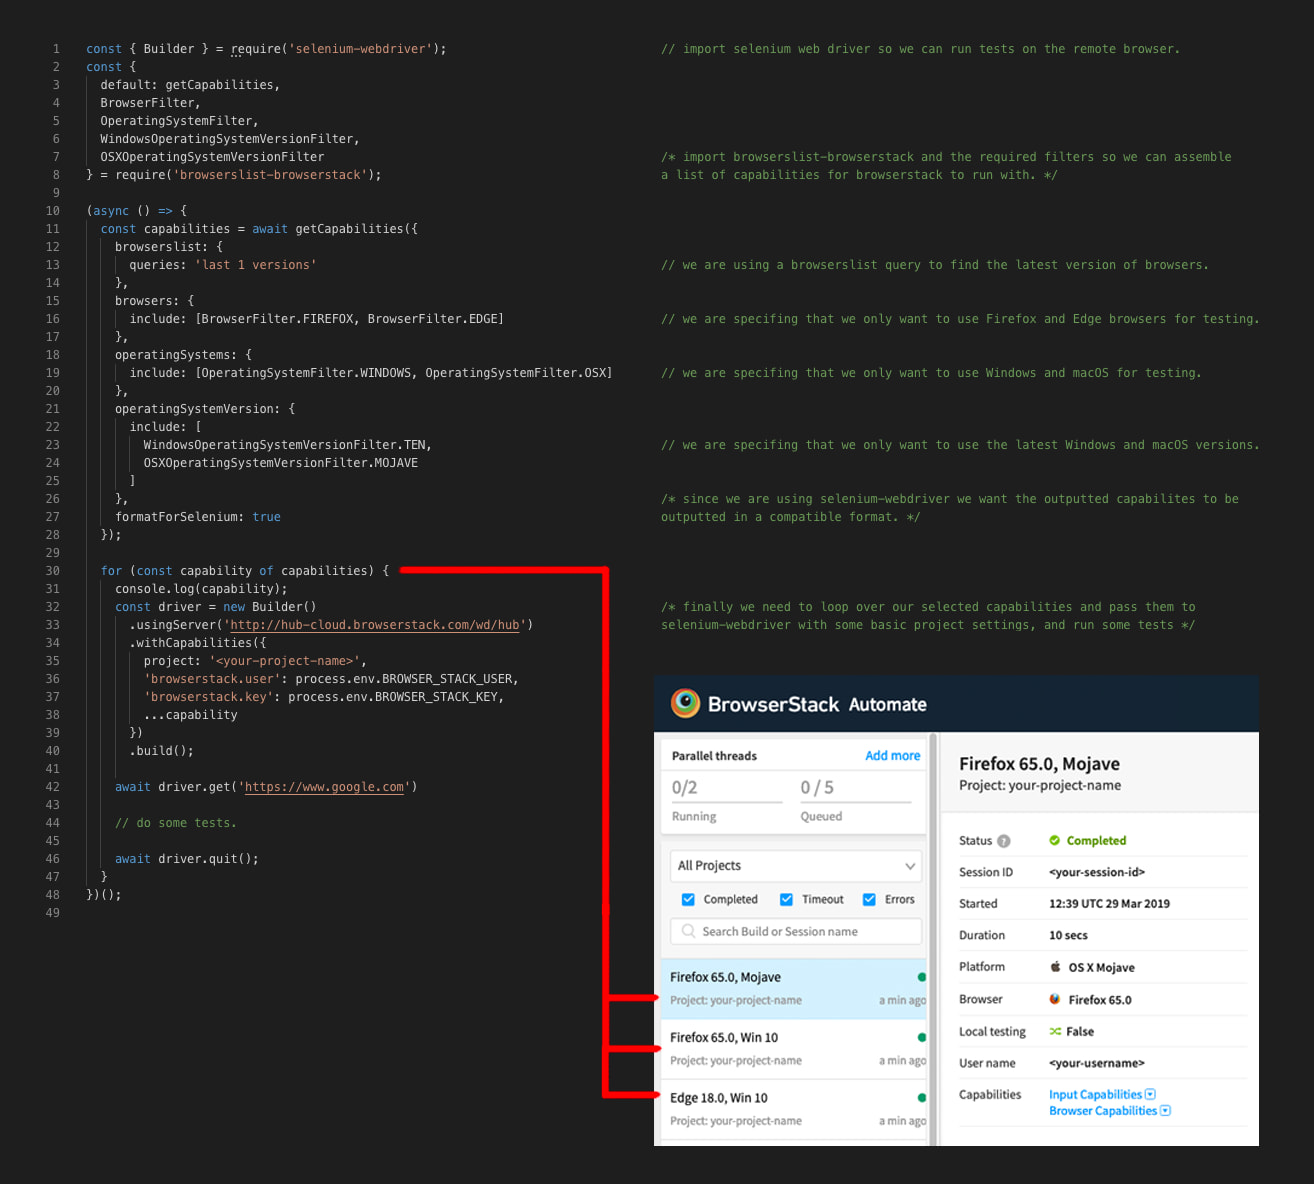
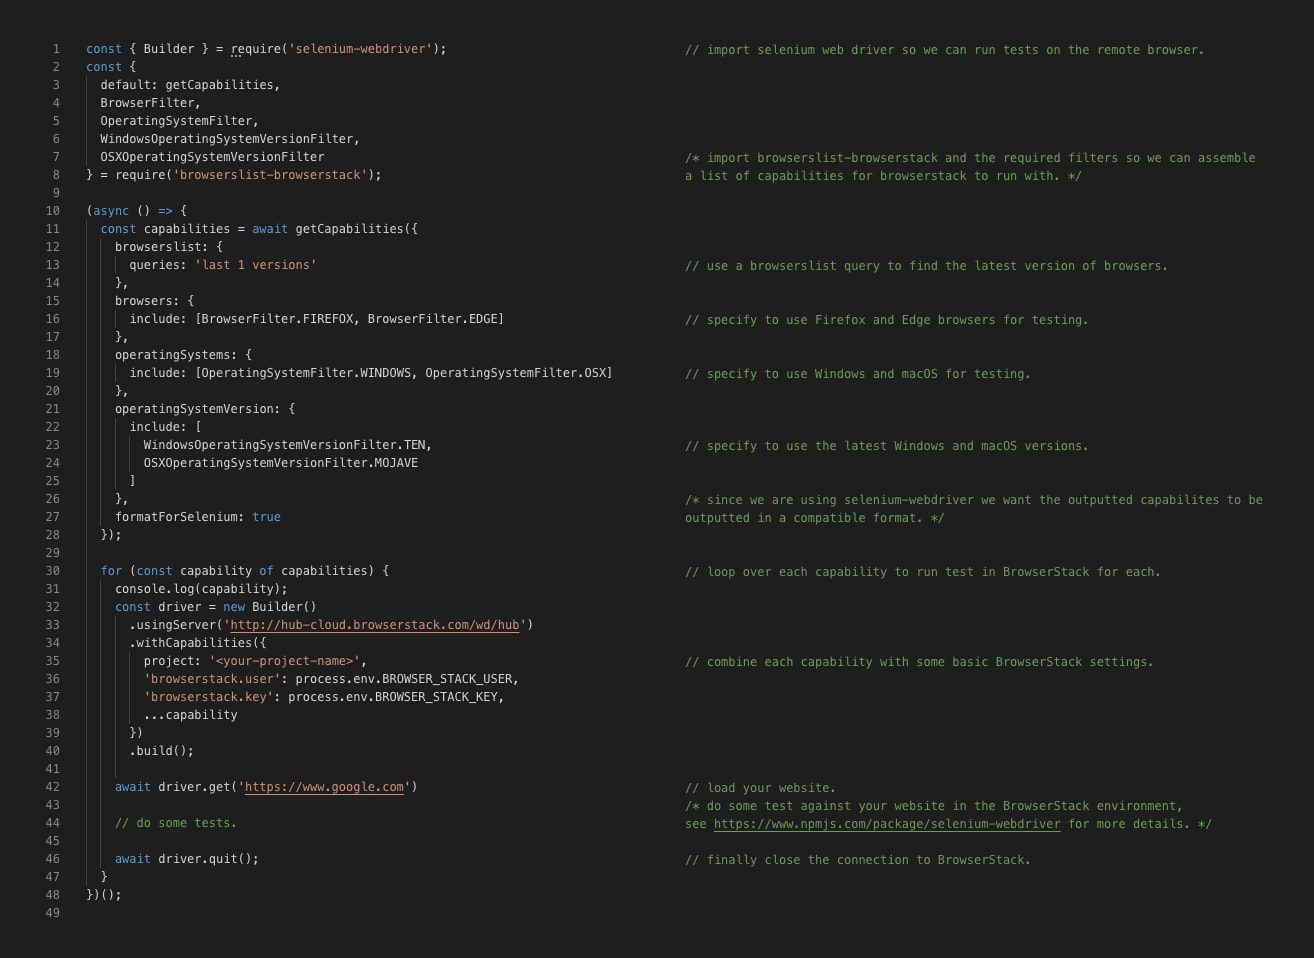
docs(readme): more tweaks

diff --git a/examples/minimal.comments.js b/examples/minimal.comments.js
@@ -10,24 +10,38 @@ a list of capabilities for browserstack to run with. */
 
 
 
-// we are using a browserslist query to find the latest version of browsers.
+// use a browserslist query to find the latest version of browsers.
 
 
-// we are specifing that we only want to use Firefox and Edge browsers for testing.
+// specify to use Firefox and Edge browsers for testing.
 
 
-// we are specifing that we only want to use Windows and macOS for testing.
+// specify to use Windows and macOS for testing.
 
 
 
-// we are specifing that we only want to use the latest Windows and macOS versions.
+// specify to use the latest Windows and macOS versions.
 
 
 /* since we are using selenium-webdriver we want the outputted capabilites to be
 outputted in a compatible format. */
 
 
+// loop over each capability to run test in BrowserStack for each.
 
 
-/* finally we need to loop over our selected capabilities and pass them to
-selenium-webdriver with some basic project settings, and run some tests */
+
+
+// combine each capability with some basic BrowserStack settings.
+
+
+
+
+
+// load your website.
+
+/* do some test against your website in the BrowserStack environment,
+see https://www.npmjs.com/package/selenium-webdriver for more details. */
+
+// finally close the connection to BrowserStack.
+

diff --git a/examples/minimal.js b/examples/minimal.js
@@ -28,7 +28,6 @@ const {
   });
 
   for (const capability of capabilities) {
-    console.log(capability);
     const driver = new Builder()
       .usingServer('http://hub-cloud.browserstack.com/wd/hub')
       .withCapabilities({

diff --git a/README.md b/README.md
@@ -1,18 +1,11 @@
 [![circleci status][circleci-badge]][circleci-link] [![npm package][npm-badge]][npm-link] [![license MIT][license-badge]][license] [![commit style angular][commit-style-badge]][commit-style-link] [![semantic-release][semantic-release-badge]][semantic-relase-link]
 
 # browserslist-browserstack
-
-__Important Note: In order to use this package a BrowserStack account with a valid Automate plan is required, a free trial is available.__
-
-Easily filter the browser versions and operating systems to use when runnning automated tests through BrowserStack. Using a combination of browserslist rules like `> 1%` and include/exclude filters.
-
-
-## Usage
-The main use case for using browserslist-browserstack is to test websites across a number of different browsers and operating systems, without having to manually specify them or update them everytime a new browser version is released. The example below shows a minimal use-case using selenium-webdriver to run integration tests for https://www.google.com on BrowserStack's Automate platform. This code would likely be included as part of a testing suite like [Jest][jest-link] or [Mocha][mocha-link], and perform some relevant assertions like detecting JS errors on a webpage for different browsers.
-[![minimal example][minimal-example-image]][minimal-example-link]
-[View the source code][minimal-example-link]
+Run BrowserStack tests for all browsers in project’s [Browserslist][browserslist-repo] config (with additional include/exclude filters).
 
 ## Setup
+__Important Note: In order to use this package a BrowserStack account with a valid Automate plan is required, a free trial is available.__
+
 browserslist-browserstack is an npm module, so getting things up and running is simple.
 1. Install the npm module:
 ```bash
@@ -20,7 +13,7 @@ yarn add browserslist-browserstack --dev
 # or
 npm install browserslist-browserstack --save-dev
 ```
-2. Import it into a project:
+2. Import it into a project (e.g. `browserstack.test.js` or whatever convention your testing suite uses):
 ```javascript
 const getCapabilities = require('browserslist-browserstack').default;
 // or
@@ -46,6 +39,15 @@ const capabilities = await getCapabilities({
 });
 ```
 
+## Example
+The main use case for using browserslist-browserstack is to test websites across a number of different browsers and operating systems, without having to manually specify them or update them everytime a new browser version is released. The example below shows a minimal use-case using selenium-webdriver to run integration tests for https://www.google.com on BrowserStack's Automate platform. This code would likely be included as part of a testing suite like [Jest][jest-link] or [Mocha][mocha-link], and perform some relevant assertions like detecting JS errors on a webpage for different browsers.
+[![minimal example][minimal-example-image]][minimal-example-link]
+[View the source code][minimal-example-link]
+
+Running the above code, providing valid `BROWSER_STACK_KEY` and `BROWSER_STACK_KEY` environment variable are set, would result in the following 3 tests being run on BrowserStack (browser versions will change as new ones are released, but should always be the latest):
+
+![BrowserStack Interface][browserstack-image]
+
 ## Options
 _Note: none of these options are required, by default `getCapabilities` will just return the list straight from BrowserStack's REST API provided `BROWSER_STACK_USERNAME` and `BROWSER_STACK_ACCESS_KEY` are set, and are valid._
 
@@ -53,7 +55,7 @@ _Note: none of these options are required, by default `getCapabilities` will jus
 | --- | --- | --- | --- | --- |
 | username | `String` | A BrowserStack Username to use when requesting supported capabilities for an account. | `"username"` | `process.env.BROWSER_STACK_USERNAME` |
 | accessKey | `String` | A BrowserStack Access Key to use when requesting supported capabilities for an account. | `"xxxxxxxxxxxxxxxxxxxx"` | `process.env.BROWSER_STACK_ACCESS_KEY` |
-| browserslist | `Object` | Options to pass to browserslist. See [browserslist options][browserslist-js-api]. | `{ queries: ['> 1%', 'IE 10'], options: { ignoreUnknownVersions: true } }` | `undefined` |
+| browserslist | `Object` | Options to pass to Browserslist. See [Browserslist options][browserslist-js-api]. | `{ queries: ['> 1%', 'IE 10'], options: { ignoreUnknownVersions: true } }` | `undefined` |
 | browsers.include | `Array` | A list of [BrowserFilter's](#BrowserFilter) to include in the capabilities list. | `[BrowserFilter.FIREFOX, BrowserFilter.CHROME]` | `[]` |
 | browsers.exclude | `Array` | A list of [BrowserFilter's](#BrowserFilter) to exclude in the capabilities list. | `[BrowserFilter.IE, BrowserFilter.EDGE]` | `[]` |
 | operatingSystems.include | `Array` | A list of [OperatingSystemFilter's](#OperatingSystemFilter) to include in the capabilities list. | `[OperatingSystemFilter.WINDOWS]` | `[]` |
@@ -108,7 +110,7 @@ A custom error class which indicates errors caused if a node-fetch response is n
 For convinience, just fowards the class from [node-fetch][node-fetch-fetch-error].
 
 ### BrowsersListError
-For convinience, just fowards the class from [browserslist][browserslist-error].
+For convinience, just fowards the class from [Browserslist][browserslist-error].
 
 ## Error Handling
 If a request to BrowserStack's REST API encounters an issue one of these errors will be thrown:
@@ -116,13 +118,13 @@ If a request to BrowserStack's REST API encounters an issue one of these errors 
 - [FetchError](#FetchError)
 - [AbortError](#AbortError)
 
-If there is an issue parsing queries with browserslist a [BrowsersListError](#BrowsersListError) will be thrown.
+If there is an issue parsing queries with Browserslist a [BrowsersListError](#BrowsersListError) will be thrown.
 
-See [node-fetch docs][node-fetch-error-handling] and [browserslist docs][browserslist-repo] for more details.
+See [node-fetch docs][node-fetch-error-handling] and [Browserslist docs][browserslist-repo] for more details.
 
 ## Useful links
 - [BrowserStack Automate][browserstack-automate-link]: required service to run tests on remote machines with a webdriver.
-- [browserslist][browserslist-repo]: used to query browser versions.
+- [Browserslist][browserslist-repo]: used to query browser versions.
 - [selenium-webdriver][selenium-link]: allows control of remote browsers on BrowserStack's Automate platform.
 - [browserstack-local][browserstack-local-link]: allows testing of local pages that aren not hosted on a web server.
 
@@ -161,6 +163,7 @@ See [node-fetch docs][node-fetch-error-handling] and [browserslist docs][browser
 
 [minimal-example-image]: ./minimal-example.jpg
 [minimal-example-link]: ./examples/minimal.js
+[browserstack-image]: ./browserstack.jpg
 
 [jest-link]: https://jestjs.io/
 [mocha-link]: https://mochajs.org/
